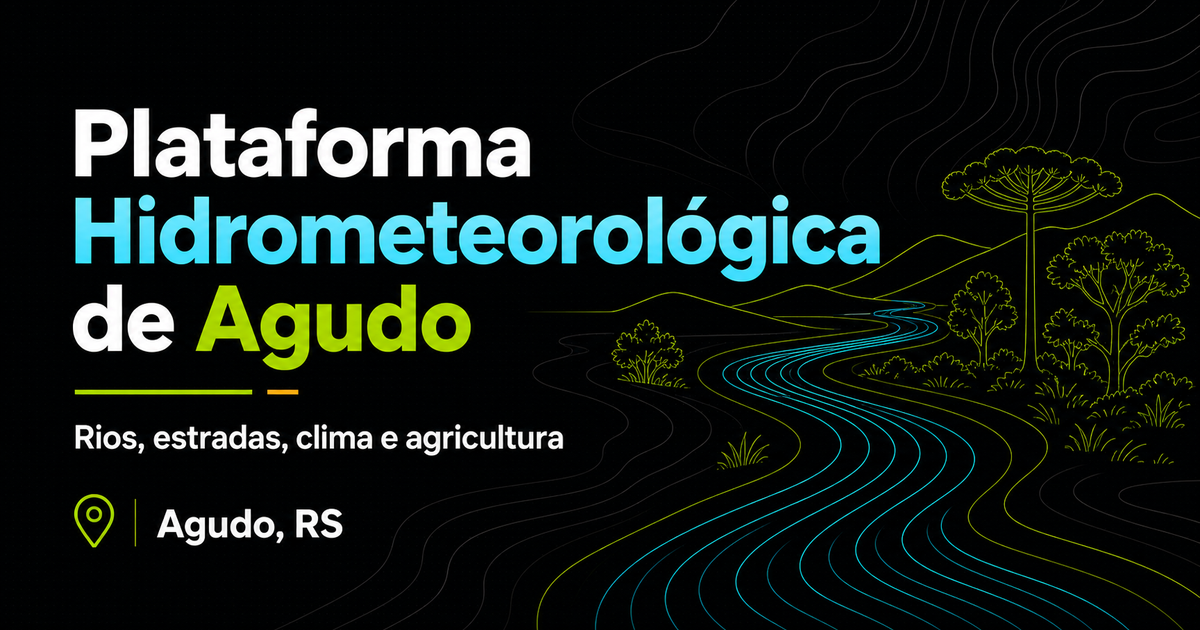
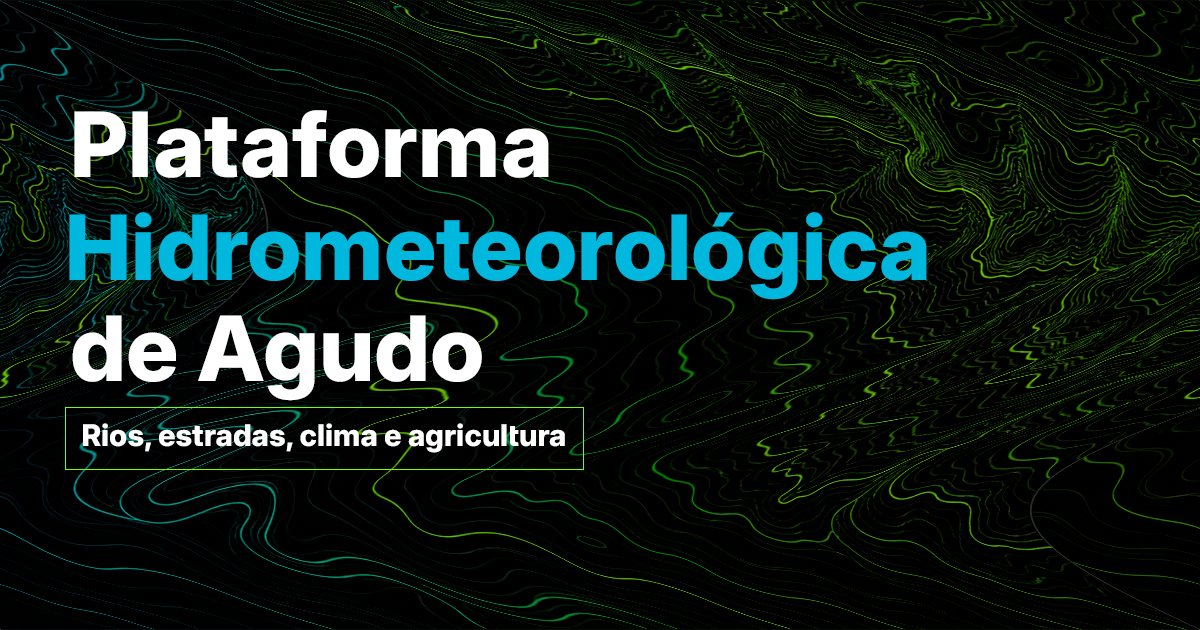
Atualiza capa de compartilhamento

diff --git a/index.html b/index.html
@@ -22,7 +22,7 @@
     />
     <meta
       property="og:image"
-      content="https://agudo-hidro-meteo.vercel.app/assets/preview-social.png"
+      content="https://agudo-hidro-meteo.vercel.app/assets/preview-social.png?v=2"
     />
     <meta property="og:image:width" content="1200" />
     <meta property="og:image:height" content="630" />
@@ -43,7 +43,7 @@
     />
     <meta
       name="twitter:image"
-      content="https://agudo-hidro-meteo.vercel.app/assets/preview-social.png"
+      content="https://agudo-hidro-meteo.vercel.app/assets/preview-social.png?v=2"
     />
 
     <title>Plataforma Hidrometeorológica de Agudo, RS</title>
